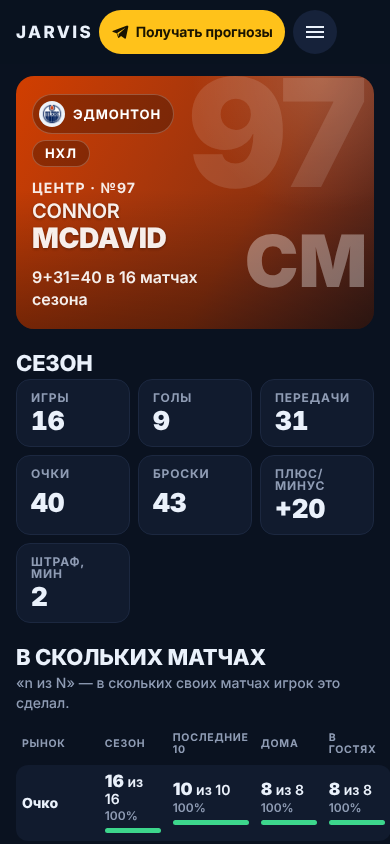
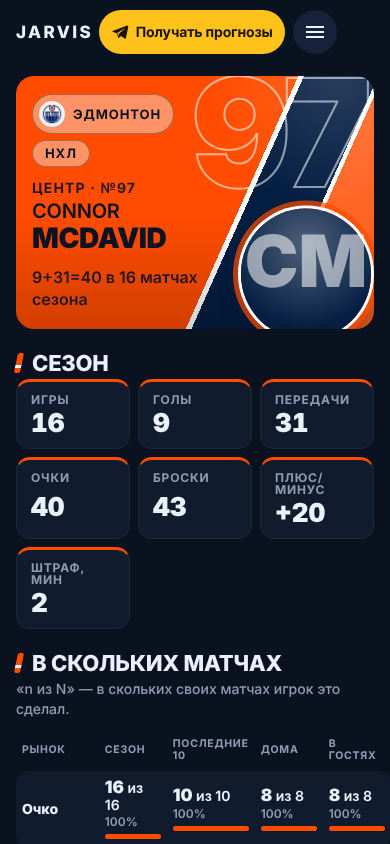
Сайт v3a: профиль игрока в цветах клуба (шапка-свитер с полосами рукава, номер контуром, портрет на подложке, графики в акценте клуба)
Claude-Session: https://claude.ai/code/session_018beMsCrPZCjR2cFauEteLf

diff --git a/team/site/v3a/assets/club/player-k.css b/team/site/v3a/assets/club/player-k.css
@@ -1,0 +1,36 @@
+/* Профиль игрока в цветах клуба (06.11). Класс .k на .pp и переменные --kb/--kbm/--ks/--kt/--ko/--ko2/--kx/--kp/--kg ставит player.js из club/jersey.js.
+   Шапка — свитер: основной цвет слева, диагональные полосы рукава (второй цвет и кромка) справа, номер контуром, портрет на подложке.
+   Графики и акценты ниже — в --kg: цвет клуба, подобранный по контрасту к фону страницы. Без .k (нет цвета клуба) всё как раньше. */
+.pp.k .pp-hero{--bp:66%;color:var(--ko);
+  background:
+    linear-gradient(0deg,rgba(0,0,0,.18),transparent 45%),
+    linear-gradient(114deg,var(--kb) 0 var(--bp),var(--kt) var(--bp) calc(var(--bp) + 1.2%),var(--ks) calc(var(--bp) + 1.2%) calc(var(--bp) + 17%),var(--kt) calc(var(--bp) + 17%) calc(var(--bp) + 18%),var(--kbm) calc(var(--bp) + 18%) 100%)}
+.pp.k .pp-hero::before{background:radial-gradient(60% 90% at 90% 0%,rgba(255,255,255,.14),transparent 60%);z-index:-1}
+.pp.k .pp-no{color:transparent;-webkit-text-stroke:2px var(--kt);opacity:.55;right:clamp(8px,2vw,28px)}
+.pp.k .pp-crumbs a{color:var(--ko);background:rgba(0,0,0,.3);border-color:color-mix(in srgb,var(--ko) 35%,transparent)}
+.pp.k.lt .pp-crumbs a{background:rgba(255,255,255,.4)}
+.pp.k .pp-crumbs a:hover,.pp.k .pp-crumbs a:focus-visible{background:rgba(0,0,0,.5)}
+.pp.k.lt .pp-crumbs a:hover,.pp.k.lt .pp-crumbs a:focus-visible{background:rgba(255,255,255,.65)}
+.pp.k .pp-pos,.pp.k .pp-sub{color:var(--ko2);opacity:1}
+.pp.k h1{color:var(--ko);opacity:1;text-shadow:none}
+.pp.k .pp-photo::before{content:"";position:absolute;left:16%;right:16%;bottom:0;aspect-ratio:1;border-radius:50%;
+  background:radial-gradient(circle at 50% 28%,color-mix(in srgb,var(--kp) 70%,#fff),var(--kp) 72%);
+  box-shadow:0 0 0 3px var(--kt),0 0 0 8px color-mix(in srgb,var(--kb) 70%,transparent),0 18px 30px -12px rgba(0,0,0,.55);transform:translateY(8%)}
+.pp.k .pp-photo img.ph{position:relative;filter:drop-shadow(0 8px 14px rgba(0,0,0,.4))}
+.pp.k .pp-ini{color:var(--kpo);opacity:.55;z-index:1}
+.pp.k .pp-hero{overflow:hidden}
+/* акценты ниже шапки */
+.pp.k .pp-sec>h2{display:flex;align-items:center;gap:10px}
+.pp.k .pp-sec>h2::before{content:"";flex:none;width:6px;height:.9em;border-radius:2px;background:linear-gradient(180deg,var(--kg) 0 62%,var(--kt) 62% 74%,var(--kg) 74%);transform:skewX(-12deg)}
+.pp.k .pp-tile{border-top:3px solid var(--kg)}
+.pp.k .pp-tabs button[aria-pressed=true]{background:var(--kg);color:var(--kgo);border-color:var(--kg)}
+.pp.k .pp-mk .mb i{background:var(--kg)}
+.pp.k .pp-col .bar.g{background:var(--kg)}
+.pp.k .pp-col .bar.g b{color:var(--kgo)}
+.pp.k .pp-gm .pt b.g{background:var(--kg);color:var(--kgo)}
+.pp.k .pp-nx{border-left:4px solid var(--kg)}
+@media (hover:hover){.pp.k .pp-tile{transition:transform .18s ease}.pp.k .pp-tile:hover{transform:translateY(-2px)}}
+@media (max-width:720px){
+  .pp.k .pp-hero{--bp:60%}
+  .pp.k .pp-photo::before{left:2%;right:2%}
+}

diff --git a/team/site/v3a/assets/player.js b/team/site/v3a/assets/player.js
@@ -75,6 +75,14 @@ fetch(`data/pp/${LG}/${ID}.json`).then(r=>{if(!r.ok)throw 0;return r.json()}).th
  <div class="pp-cta"><p>Разборы матчей и прогнозы по хоккею — в нашем Telegram-боте.</p><a href="https://t.me/jarvibet" target="_blank" rel="noopener">Получать прогнозы — бесплатно</a></div>`;
  MAIN.innerHTML=html;
  MAIN.style.setProperty('--c',col);
+ /* клубные цвета профиля (06.11): переменные --kb… из club/jersey.js; --kg — акцент для графиков на фоне страницы */
+ const JY=window.JV_JERSEY,jc=JY&&JY.calc(P.t);
+ if(jc){
+  JY.vars(P.t).split(';').forEach(d=>{const i=d.indexOf(':');MAIN.style.setProperty(d.slice(0,i),d.slice(i+1))});
+  let bg='#0b1626';try{const m=/(\d+)\D+(\d+)\D+(\d+)/.exec(getComputedStyle(document.body).backgroundColor);if(m)bg='#'+[1,2,3].map(i=>(+m[i]).toString(16).padStart(2,'0')).join('')}catch(e){}
+  const a=JY.pick(P.t,bg);MAIN.style.setProperty('--kg',a.g);MAIN.style.setProperty('--kgo',a.go);
+  MAIN.classList.add('k');if(jc.lt)MAIN.classList.add('lt');
+ }
  /* график */
  const chart=document.getElementById('chart');
  const draw=k=>{const m=mkList.find(x=>x.k===k)||mkList[0],R=log.slice(-15),mx=Math.max(k==='s3'?4:2,...R.map(m.v));

diff --git a/team/site/v3a/assets/club/jersey.js b/team/site/v3a/assets/club/jersey.js
@@ -86,5 +86,10 @@ function calc(k){
 }
 const vars=k=>{const v=calc(k);if(!v)return'';
  return`--kb:${v.b};--kbm:${v.bm};--ks:${v.s};--kt:${v.t};--ko:${v.ko};--ko2:${v.ko2};--kx:${v.kx};--kp:${v.kp};--kpo:${v.kpo}`};
-return{J,calc,vars,key,cr,mix,lum}
+/* акцент для страницы на фоне bg (#rrggbb): самый «цветной» из основного/второго/кромки, что читается на фоне (≥3.2); иначе осветляем */
+const pick=(k,bg)=>{const c=J[k];if(!c)return null;const chroma=h=>{const a=rgb(h);return Math.max(...a)-Math.min(...a)};
+ for(const t of[0,.15,.3,.45,.6]){const ok=c.map(x=>mix(x,WH,t)).filter(x=>cr(x,bg)>=3.2&&chroma(x)>45);
+  if(ok.length){const g=ok.sort((a,b)=>chroma(b)-chroma(a))[0];return{g,go:cr(WH,g)>=cr(DK,g)?WH:DK}}}
+ return{g:WH,go:DK}};
+return{J,calc,vars,key,pick,cr,mix,lum}
 })();

diff --git a/team/site/v3a/hockey/player.html b/team/site/v3a/hockey/player.html
@@ -13,6 +13,7 @@
 <link rel="stylesheet" href="../assets/v3a.css">
 <link rel="stylesheet" href="../assets/nav.css">
 <link rel="stylesheet" href="../assets/player.css">
+<link rel="stylesheet" href="../assets/club/player-k.css">
 <script src="../assets/efir/efir-loader.js"></script>
 <script src="../assets/palettes.js"></script>
 <!--seo:begin-->
